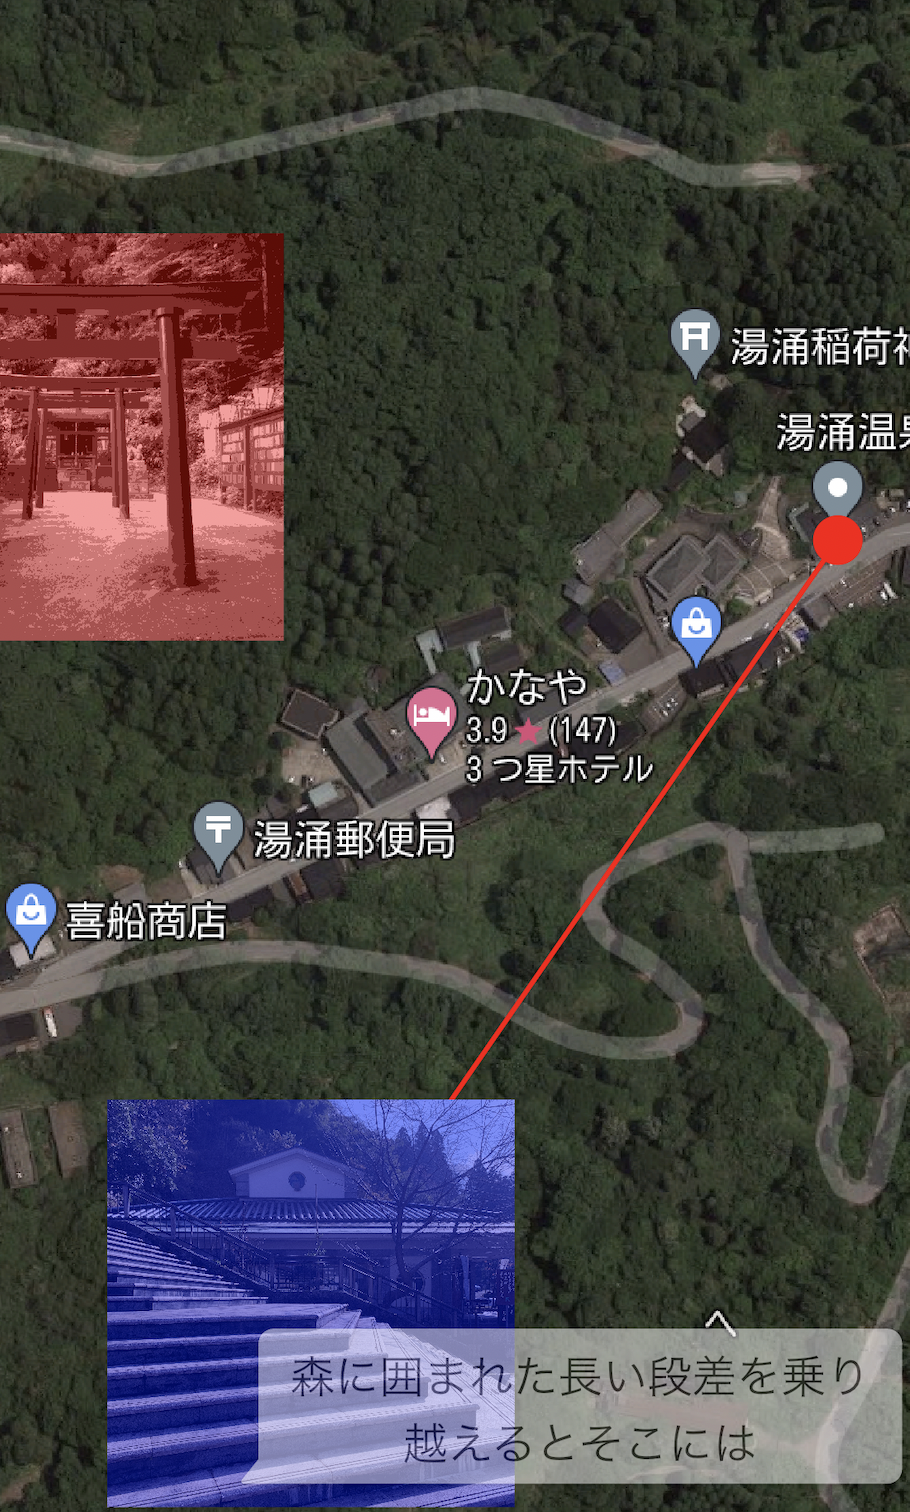
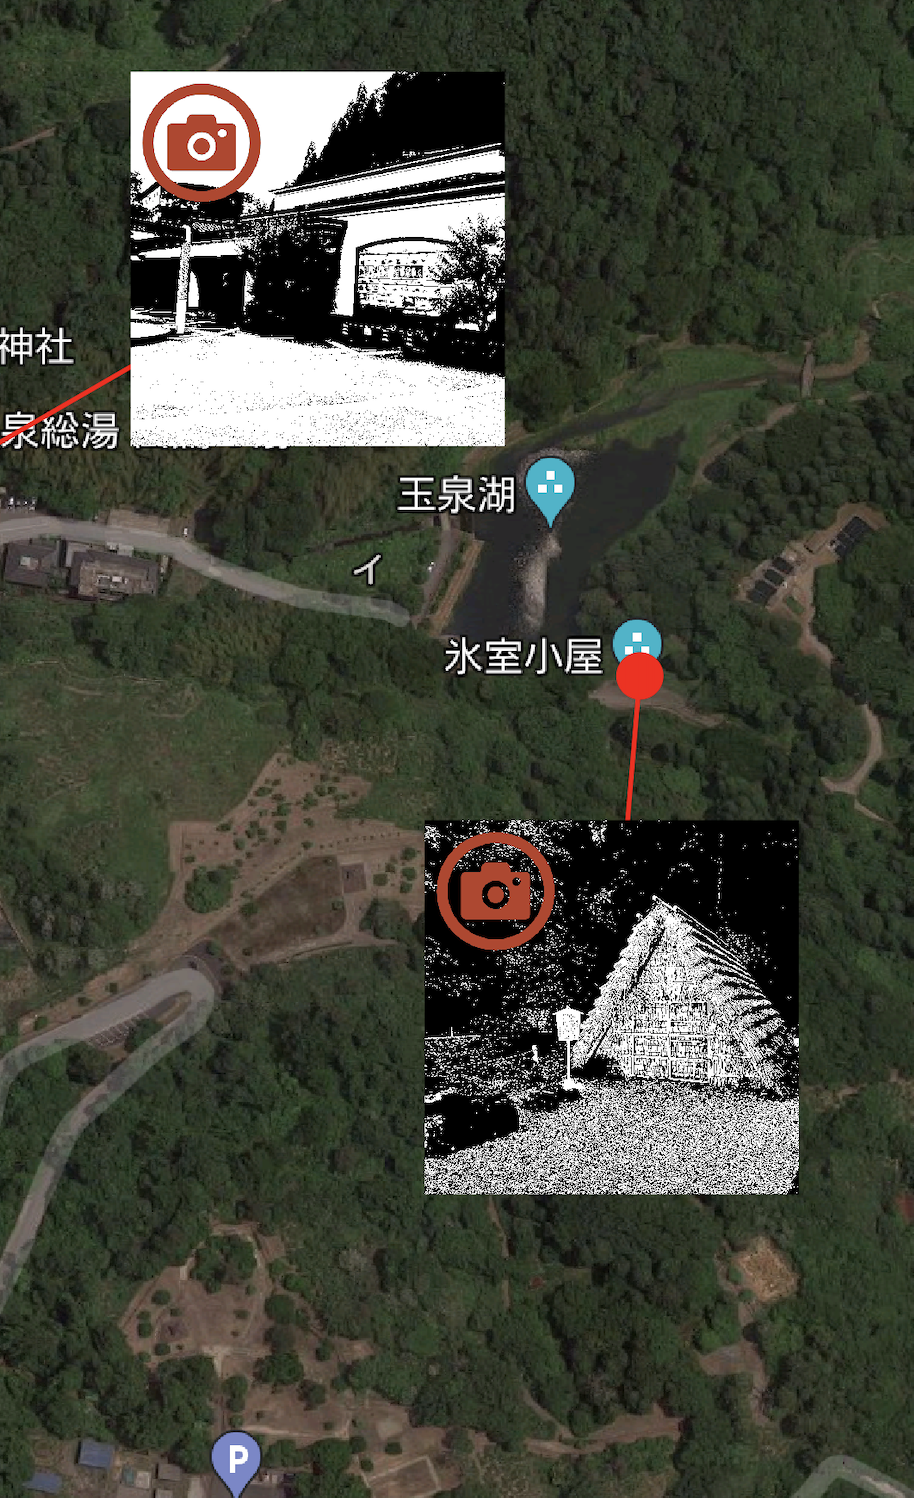
チュートリアル画像の差し替え

diff --git a/lib/tutorial_page.dart b/lib/tutorial_page.dart
@@ -79,7 +79,7 @@ extension PageDataExtension on PageData {
     },
     PageData.second: {
       'title': 'スポットを見つけたら写真を撮影',
-      'description': 'スポットに近づいたら画像が青くなるよ！！',
+      'description': 'スポットに近づいたらカメラマークがでるよ！！',
       'imagePath': 'assets/images/tutorial_image_step2.png'
     }
   };
